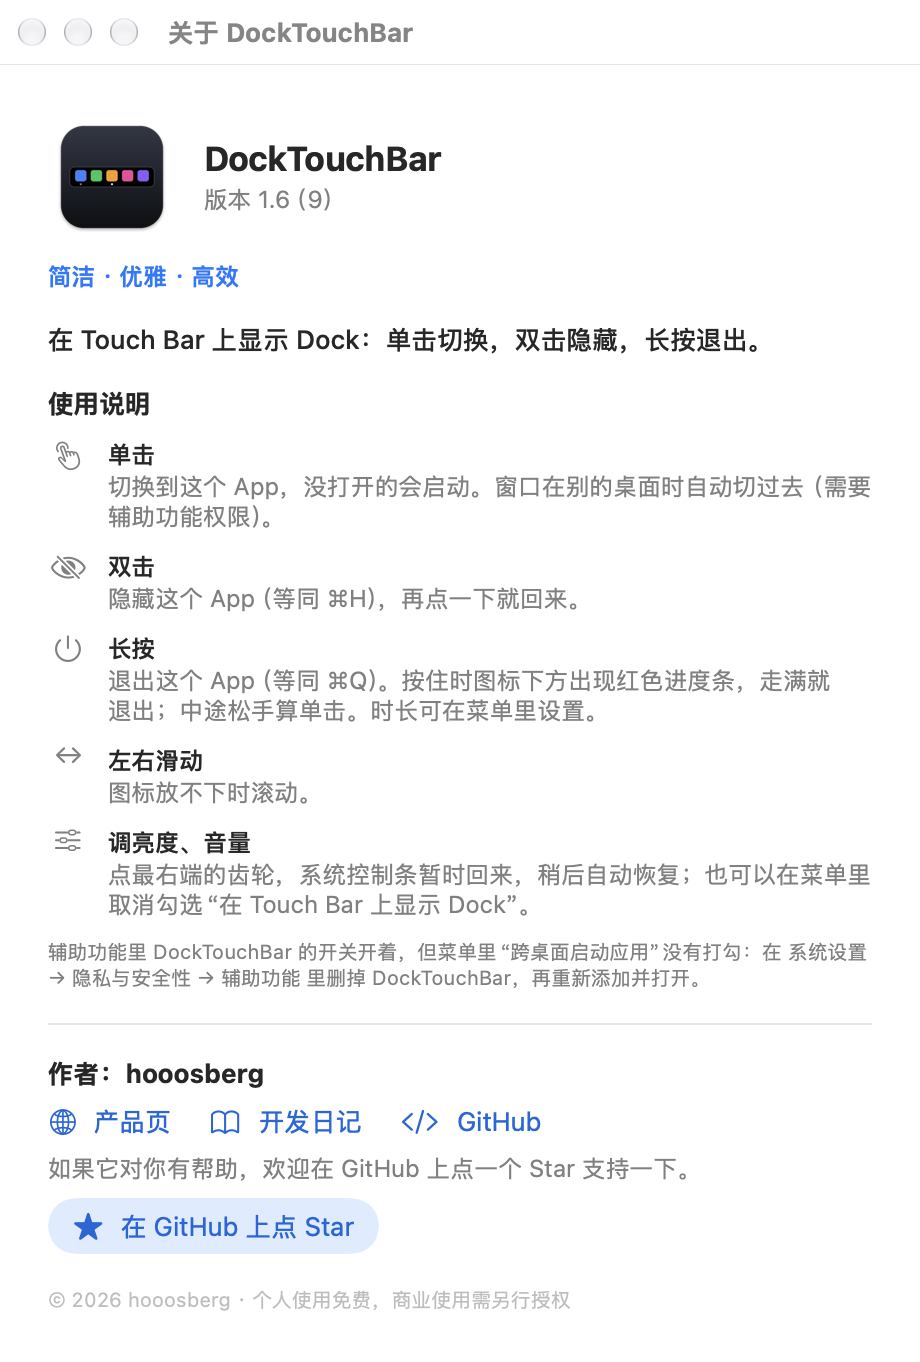
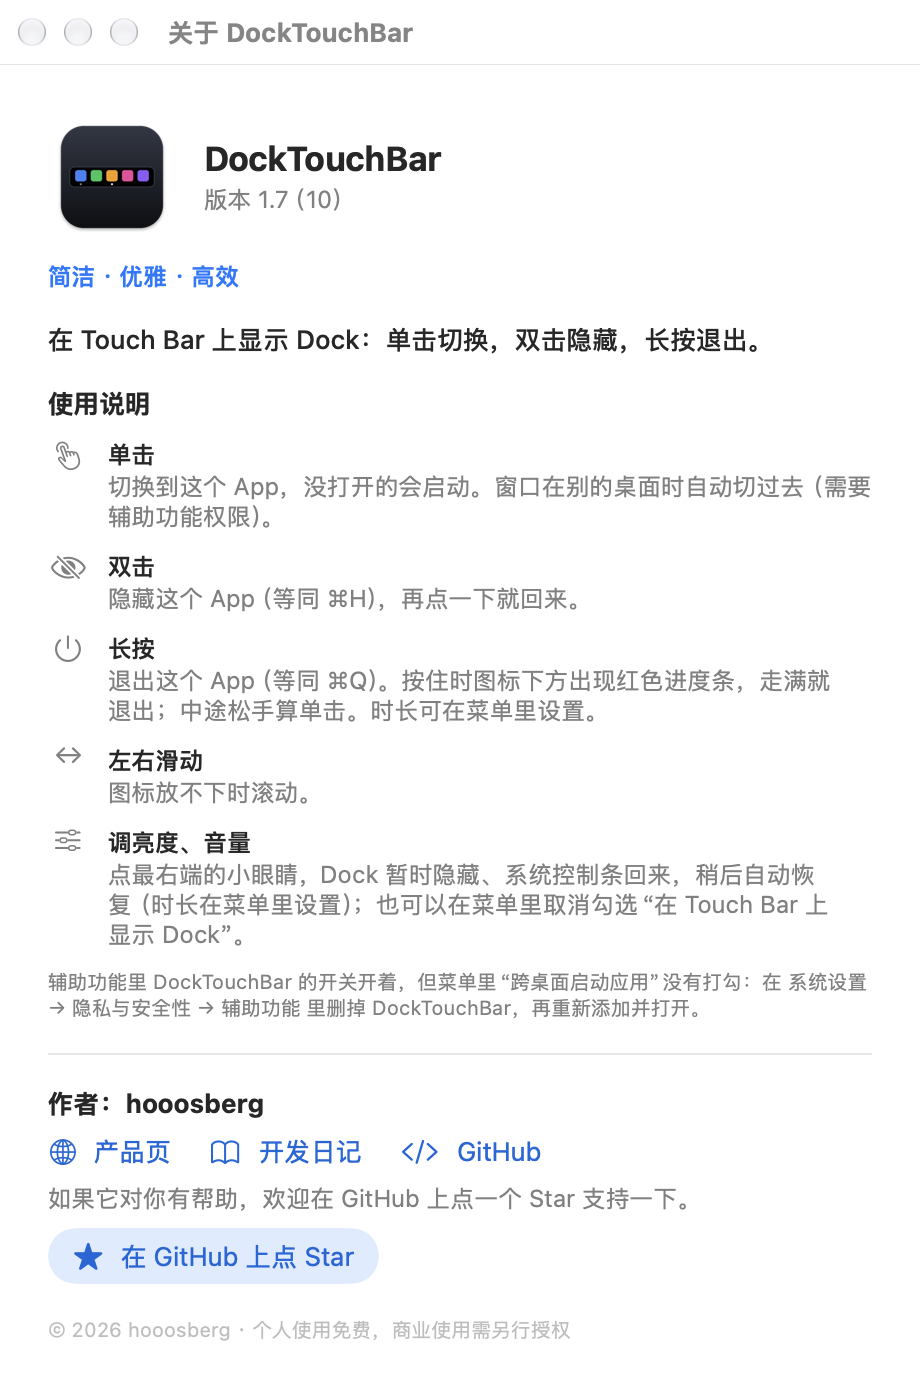
Release 1.7: eye button, configurable hide time, clearer and grouped menu

diff --git a/Sources/DockTouchBar/DockBarController.swift b/Sources/DockTouchBar/DockBarController.swift
@@ -8,13 +8,11 @@ final class DockBarController: NSObject {
         static let iconSize: CGFloat = 24
         /// Touch Bar 占满整条时可用宽度约 1004pt。
         static let maxDockWidth: CGFloat = 1000
-        /// 最右侧固定的“设置”按钮宽度（Dock 图标区不会画到它下面）。
-        static let gearWidth: CGFloat = 44
-        /// 点设置按钮时屏幕亮度低于这个值算“被调黑了”，回到 `brightnessRecovered` 以上才自动恢复。
+        /// 最右侧固定的“小眼睛”按钮宽度（Dock 图标区不会画到它下面）。
+        static let eyeWidth: CGFloat = 44
+        /// 点小眼睛时屏幕亮度低于这个值算“被调黑了”，回到 `brightnessRecovered` 以上才自动恢复。
         static let brightnessDark: Float = 0.08
         static let brightnessRecovered: Float = 0.15
-        /// 没被调黑时，暂停多久后自动恢复。
-        static let pauseTimeout: TimeInterval = 20
         static let doubleTapInterval: TimeInterval = 0.35
         /// 按住多久开始显示“长按退出”的进度条；比这更短的按压都当作点击。
         static let pressArmDelay: TimeInterval = 0.35
@@ -34,9 +32,11 @@ final class DockBarController: NSObject {
     /// 装着 Dock 和右侧“正在关闭”提示的容器；宽度固定为整条 Touch Bar，Dock 靠左，提示靠右边缘。
     private let container = NSView()
     private let quitHint = QuitHintView()
-    private let gearButton = NSButton()
-    /// 临时暂停：用户点了右侧的设置按钮，让出 Touch Bar 给系统控制条（亮度、音量……）。
+    private let eyeButton = NSButton()
+    /// 临时暂停：用户点了右侧的小眼睛按钮，让出 Touch Bar 给系统控制条（亮度、音量……）。
     private var isPaused = false
+    /// 点“小眼睛”后暂时隐藏多久（秒）；如果屏幕已经被调黑，则不看时间，等亮度回来。
+    var pauseDuration: TimeInterval = 20
     private var pauseTimer: Timer?
 
     private lazy var touchBar: NSTouchBar = {
@@ -113,27 +113,27 @@ final class DockBarController: NSObject {
         quitHint.translatesAutoresizingMaskIntoConstraints = false
         container.addSubview(scrubber)
         container.addSubview(quitHint)
-        container.addSubview(gearButton)
-        gearButton.translatesAutoresizingMaskIntoConstraints = false
+        container.addSubview(eyeButton)
+        eyeButton.translatesAutoresizingMaskIntoConstraints = false
         let symbol = NSImage.SymbolConfiguration(pointSize: 15, weight: .regular)
-        gearButton.image = NSImage(systemSymbolName: "gearshape", accessibilityDescription: L10n.tr("暂时显示系统控制条", "Show system controls"))?
+        eyeButton.image = NSImage(systemSymbolName: "eye", accessibilityDescription: L10n.tr("暂时隐藏 Dock", "Hide the Dock for a moment"))?
             .withSymbolConfiguration(symbol)
-        gearButton.isBordered = false
-        gearButton.imagePosition = .imageOnly
-        gearButton.contentTintColor = NSColor(white: 1, alpha: 0.7)
-        gearButton.target = self
-        gearButton.action = #selector(gearTapped)
+        eyeButton.isBordered = false
+        eyeButton.imagePosition = .imageOnly
+        eyeButton.contentTintColor = NSColor(white: 1, alpha: 0.7)
+        eyeButton.target = self
+        eyeButton.action = #selector(eyeTapped)
         NSLayoutConstraint.activate([
             container.widthAnchor.constraint(equalToConstant: Metrics.maxDockWidth),
             container.heightAnchor.constraint(equalToConstant: 30),
             scrubber.leadingAnchor.constraint(equalTo: container.leadingAnchor),
             scrubber.topAnchor.constraint(equalTo: container.topAnchor),
             scrubber.bottomAnchor.constraint(equalTo: container.bottomAnchor),
-            gearButton.trailingAnchor.constraint(equalTo: container.trailingAnchor),
-            gearButton.topAnchor.constraint(equalTo: container.topAnchor),
-            gearButton.bottomAnchor.constraint(equalTo: container.bottomAnchor),
-            gearButton.widthAnchor.constraint(equalToConstant: Metrics.gearWidth),
-            quitHint.trailingAnchor.constraint(equalTo: gearButton.leadingAnchor),
+            eyeButton.trailingAnchor.constraint(equalTo: container.trailingAnchor),
+            eyeButton.topAnchor.constraint(equalTo: container.topAnchor),
+            eyeButton.bottomAnchor.constraint(equalTo: container.bottomAnchor),
+            eyeButton.widthAnchor.constraint(equalToConstant: Metrics.eyeWidth),
+            quitHint.trailingAnchor.constraint(equalTo: eyeButton.leadingAnchor),
             quitHint.topAnchor.constraint(equalTo: container.topAnchor),
             quitHint.bottomAnchor.constraint(equalTo: container.bottomAnchor),
             quitHint.widthAnchor.constraint(equalToConstant: QuitHintView.width),
@@ -189,9 +189,9 @@ final class DockBarController: NSObject {
 
     // MARK: - 临时暂停（兜底：屏幕被调黑时能用系统的亮度条）
 
-    /// 点右侧的设置按钮：先把 Touch Bar 还给系统（亮度、音量都回来了），之后自动恢复：
+    /// 点右侧的小眼睛按钮：先把 Touch Bar 还给系统（亮度、音量都回来了），之后自动恢复：
     /// 暂停时屏幕已经是黑的，就等亮度回来；否则过一会儿自动恢复。中途亮度又被调黑，就一直等到亮起来。
-    @objc private func gearTapped() {
+    @objc private func eyeTapped() {
         beginPause()
     }
 
@@ -206,7 +206,7 @@ final class DockBarController: NSObject {
             guard let self else { return }
             let brightness = ScreenBrightness.current
             let bright = brightness.map { $0 >= Metrics.brightnessRecovered } ?? true
-            let waited = Date().timeIntervalSince(start) >= Metrics.pauseTimeout
+            let waited = Date().timeIntervalSince(start) >= pauseDuration
             if bright && (wasDark || waited) { self.endPause(present: true) }
         }
         RunLoop.main.add(timer, forMode: .common)
@@ -442,7 +442,7 @@ final class DockBarController: NSObject {
             // 图标位置变了，按压记录的序号已经不对，直接作废。
             cancelPress()
             let contentWidth = tiles.reduce(0) { $0 + Self.width(of: $1) }
-            scrubberWidth.constant = min(contentWidth, Metrics.maxDockWidth - Metrics.gearWidth)
+            scrubberWidth.constant = min(contentWidth, Metrics.maxDockWidth - Metrics.eyeWidth)
             scrubber.reloadData()
         }
     }

diff --git a/Sources/DockTouchBar/AppDelegate.swift b/Sources/DockTouchBar/AppDelegate.swift
@@ -1,7 +1,7 @@
 import AppKit
 import ServiceManagement
 
-/// 菜单栏图标 + 设置：开/关、是否显示 Dock 里固定的 App、双击隐藏、长按退出的时长、语言、登录时启动、关于。
+/// 菜单栏图标 + 设置：开/关、小眼睛临时隐藏时长、只显示正在运行的 App、跨桌面、双击隐藏、长按退出的时长、语言、登录时启动、关于。
 /// 菜单文字全部在 `menuNeedsUpdate` 里按当前语言重新设置，所以切换语言后不用重启。
 final class AppDelegate: NSObject, NSApplicationDelegate, NSMenuDelegate {
     private enum Key {
@@ -9,10 +9,13 @@ final class AppDelegate: NSObject, NSApplicationDelegate, NSMenuDelegate {
         static let showPinned = "showPinned"
         static let doubleTapHide = "doubleTapHide"
         static let longPressSeconds = "longPressSeconds"
+        static let hideSeconds = "hideSeconds"
     }
 
     /// 长按退出 App 的可选时长（秒），0 = 不启用。
     private static let longPressOptions = [0, 1, 2, 3, 5]
+    /// 点“小眼睛”后临时隐藏 Dock 的可选时长（秒）。
+    private static let hideOptions = [10, 20, 30, 60]
 
     private let dock = DockBarController()
     private let about = AboutWindowController()
@@ -20,6 +23,8 @@ final class AppDelegate: NSObject, NSApplicationDelegate, NSMenuDelegate {
     private var statusItem: NSStatusItem?
 
     private lazy var enabledItem = makeItem(#selector(toggleEnabled))
+    private lazy var hideDurationItem = makeSubmenuItem(
+        options: Self.hideOptions.map { ($0, #selector(setHideDuration(_:))) })
     private lazy var pinnedItem = makeItem(#selector(togglePinned))
     private lazy var doubleTapItem = makeItem(#selector(toggleDoubleTap))
     private lazy var longPressItem = makeSubmenuItem(
@@ -38,19 +43,23 @@ final class AppDelegate: NSObject, NSApplicationDelegate, NSMenuDelegate {
             return
         }
         defaults.register(defaults: [Key.enabled: true, Key.showPinned: true,
-                                     Key.doubleTapHide: true, Key.longPressSeconds: 3])
+                                     Key.doubleTapHide: true, Key.longPressSeconds: 3,
+                                     Key.hideSeconds: 20])
 
         let menu = NSMenu()
         menu.autoenablesItems = false
         menu.delegate = self
+        // 分组：显示 → 切换与手势 → 通用 → 关于/退出
         menu.addItem(enabledItem)
-        menu.addItem(.separator())
+        menu.addItem(hideDurationItem)
         menu.addItem(pinnedItem)
+        menu.addItem(.separator())
+        menu.addItem(accessibilityItem)
         menu.addItem(doubleTapItem)
         menu.addItem(longPressItem)
+        menu.addItem(.separator())
         menu.addItem(languageItem)
         menu.addItem(loginItem)
-        menu.addItem(accessibilityItem)
         menu.addItem(.separator())
         menu.addItem(aboutItem)
         menu.addItem(quitItem)
@@ -63,6 +72,7 @@ final class AppDelegate: NSObject, NSApplicationDelegate, NSMenuDelegate {
         dock.showsPinnedApps = defaults.bool(forKey: Key.showPinned)
         dock.doubleTapHides = defaults.bool(forKey: Key.doubleTapHide)
         dock.longPressDuration = TimeInterval(defaults.integer(forKey: Key.longPressSeconds))
+        dock.pauseDuration = TimeInterval(defaults.integer(forKey: Key.hideSeconds))
         applyEnabled()
     }
 
@@ -84,15 +94,23 @@ final class AppDelegate: NSObject, NSApplicationDelegate, NSMenuDelegate {
             : L10n.tr("当前系统不支持（找不到 Touch Bar 接口）", "Not supported on this system (Touch Bar API not found)")
         enabledItem.state = available && defaults.bool(forKey: Key.enabled) ? .on : .off
 
-        pinnedItem.title = L10n.tr("显示 Dock 里固定的 App", "Show apps pinned in the Dock")
-        pinnedItem.state = defaults.bool(forKey: Key.showPinned) ? .on : .off
+        let hideSeconds = defaults.integer(forKey: Key.hideSeconds)
+        hideDurationItem.title = L10n.tr("点小眼睛后临时隐藏：\(hideSeconds) 秒", "Hide for a moment after tapping the eye: \(hideSeconds) s")
+        for option in hideDurationItem.submenu?.items ?? [] {
+            option.title = L10n.tr("\(option.tag) 秒", "\(option.tag) s")
+            option.state = option.tag == hideSeconds ? .on : .off
+        }
 
-        doubleTapItem.title = L10n.tr("双击图标隐藏 App", "Double-tap an icon to hide the app")
+        // 界面上是“只显示正在运行的 App”，存的仍是原来的 showPinned（取反），已有用户的设置不受影响。
+        pinnedItem.title = L10n.tr("只显示正在运行的 App", "Only show running apps")
+        pinnedItem.state = defaults.bool(forKey: Key.showPinned) ? .off : .on
+
+        doubleTapItem.title = L10n.tr("双击图标：隐藏 App", "Double-tap an icon: hide the app")
         doubleTapItem.state = defaults.bool(forKey: Key.doubleTapHide) ? .on : .off
 
         let seconds = defaults.integer(forKey: Key.longPressSeconds)
-        longPressItem.title = L10n.tr("长按图标退出 App：", "Long-press an icon to quit the app: ")
-            + (seconds == 0 ? L10n.tr("不启用", "Off") : L10n.tr("\(seconds) 秒", "\(seconds) s"))
+        longPressItem.title = L10n.tr("长按图标：退出 App（", "Long-press an icon: quit the app (")
+            + (seconds == 0 ? L10n.tr("不启用", "Off") : L10n.tr("\(seconds) 秒", "\(seconds) s")) + L10n.tr("）", ")")
         for option in longPressItem.submenu?.items ?? [] {
             option.title = option.tag == 0 ? L10n.tr("不启用", "Off") : L10n.tr("按住 \(option.tag) 秒", "Hold \(option.tag) s")
             option.state = option.tag == seconds ? .on : .off
@@ -138,6 +156,11 @@ final class AppDelegate: NSObject, NSApplicationDelegate, NSMenuDelegate {
         let show = !defaults.bool(forKey: Key.showPinned)
         defaults.set(show, forKey: Key.showPinned)
         dock.showsPinnedApps = show
+    }
+
+    @objc private func setHideDuration(_ sender: NSMenuItem) {
+        defaults.set(sender.tag, forKey: Key.hideSeconds)
+        dock.pauseDuration = TimeInterval(sender.tag)
     }
 
     @objc private func toggleDoubleTap() {

diff --git a/Sources/DockTouchBar/AboutWindow.swift b/Sources/DockTouchBar/AboutWindow.swift
@@ -50,8 +50,8 @@ private struct AboutView: View {
             Usage(symbol: "arrow.left.and.right", title: L10n.tr("左右滑动", "Swipe"),
                   detail: L10n.tr("图标放不下时滚动。", "Scroll when the icons don't all fit.")),
             Usage(symbol: "slider.horizontal.3", title: L10n.tr("调亮度、音量", "Brightness & volume"),
-                  detail: L10n.tr("点最右端的齿轮，系统控制条暂时回来，稍后自动恢复；也可以在菜单里取消勾选“在 Touch Bar 上显示 Dock”。",
-                                  "Tap the gear at the right end to bring back the system controls for a moment; they hand back automatically. Or untick “Show Dock on Touch Bar” in the menu.")),
+                  detail: L10n.tr("点最右端的小眼睛，Dock 暂时隐藏、系统控制条回来，稍后自动恢复（时长在菜单里设置）；也可以在菜单里取消勾选“在 Touch Bar 上显示 Dock”。",
+                                  "Tap the eye at the right end to hide the Dock for a moment and bring back the system controls; it returns on its own (set the time in the menu). Or untick “Show Dock on Touch Bar” in the menu.")),
         ]
     }
 

diff --git a/README.md b/README.md
@@ -71,12 +71,15 @@ Pock, PockV2 and friends can put the Dock on the Touch Bar, but they do a lot mo
 Menu bar settings:
 
 - Show Dock on Touch Bar (on / off)
-- Show apps pinned in the Dock
-- Double-tap an icon to hide the app
-- Long-press an icon to quit the app: Off / 1 s / 2 s / 3 s / 5 s
+- Hide for a moment after tapping the eye: 10 / 20 / 30 / 60 s
+- Only show running apps (off by default: pinned apps are shown too)
+
+- Launch apps across desktops — ticked when Accessibility permission is granted; if not, click it to grant
+- Double-tap an icon: hide the app
+- Long-press an icon: quit the app (Off / 1 s / 2 s / 3 s / 5 s)
+
 - Language: Follow System / 简体中文 / English
 - Launch at login
-- Launch apps across desktops — ticked when Accessibility permission is granted; if not, click it to grant
 - About — usage guide, product page and build diary links, Star button
 
 Opening the app again from Applications while it is running pops up the menu.
@@ -100,7 +103,7 @@ Opening the app again from Applications while it is running pops up the menu.
 Things to know:
 
 - It uses **private Apple APIs** to keep a Touch Bar on screen from a background app. That is also why it cannot be on the Mac App Store, and why a future macOS update could break it. The private interfaces are resolved at runtime, so if one disappears that feature switches off instead of crashing; `swift tools/probe-private-api.swift` shows which ones your macOS still has.
-- The Dock takes the **whole** Touch Bar, so the system Control Strip (brightness, volume) is hidden while it is on. Tap the gear button at the right end of the bar to hand the Touch Bar back to the system for a moment (it comes back on its own after about 20 seconds, or as soon as the brightness is raised if the screen was turned all the way down). You can also untick "Show Dock on Touch Bar" in the menu.
+- The Dock takes the **whole** Touch Bar, so the system Control Strip (brightness, volume) is hidden while it is on. Tap the small eye at the right end of the bar to hide the Dock for a moment and hand the Touch Bar back to the system (it returns on its own after 10–60 seconds, 20 by default — or, if the screen was turned all the way down, as soon as the brightness is raised). You can also untick "Show Dock on Touch Bar" in the menu.
 - Left-to-right order matches your Dock: Finder → pinned apps → divider → other running apps.
 - With Stage Manager on, macOS animates the window change, so the window can take about half a second to appear on screen. The tapped app becomes the frontmost app in about 40 ms; the rest is the system's animation.
 
